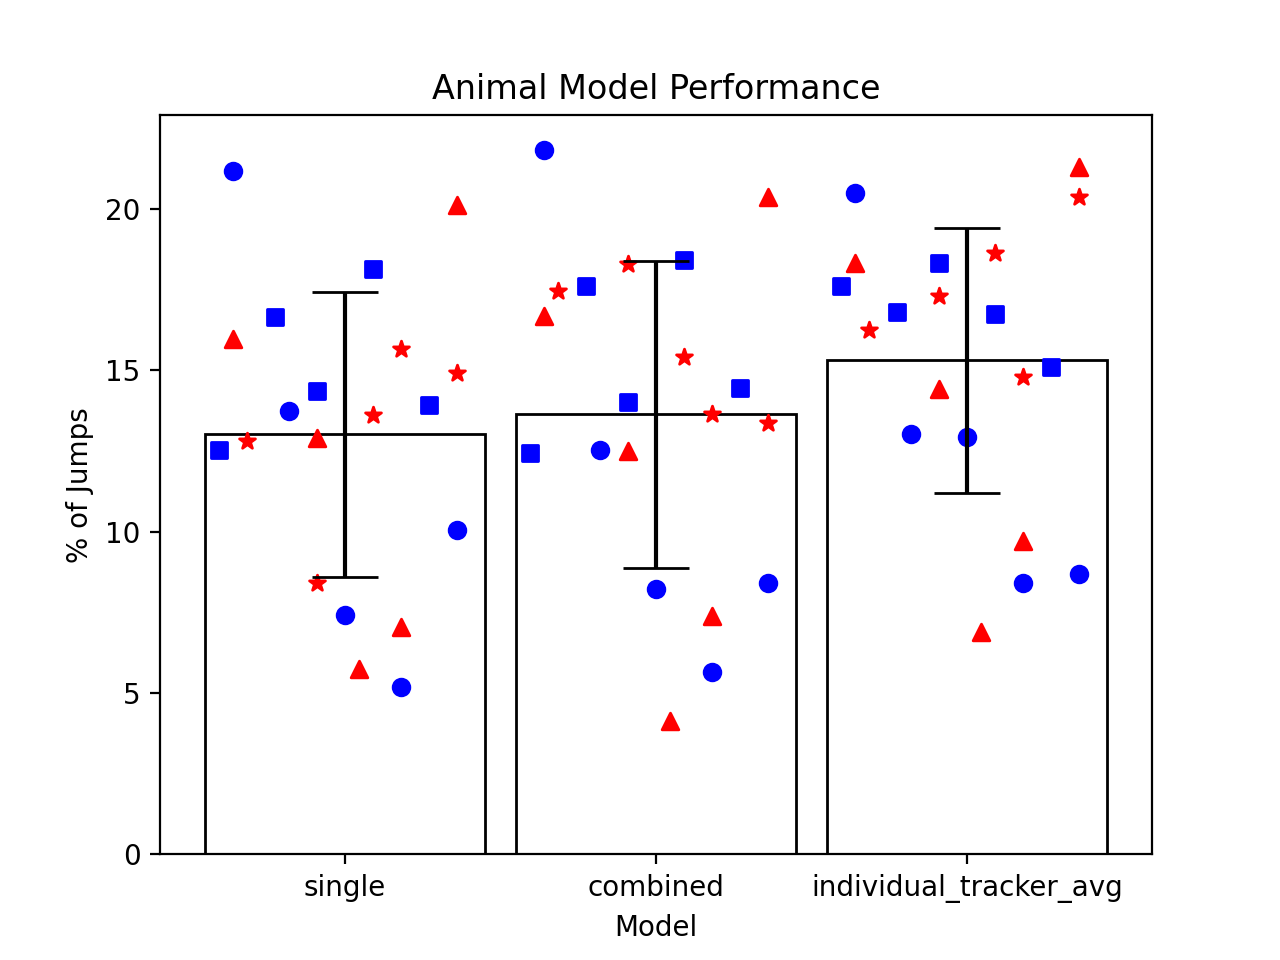
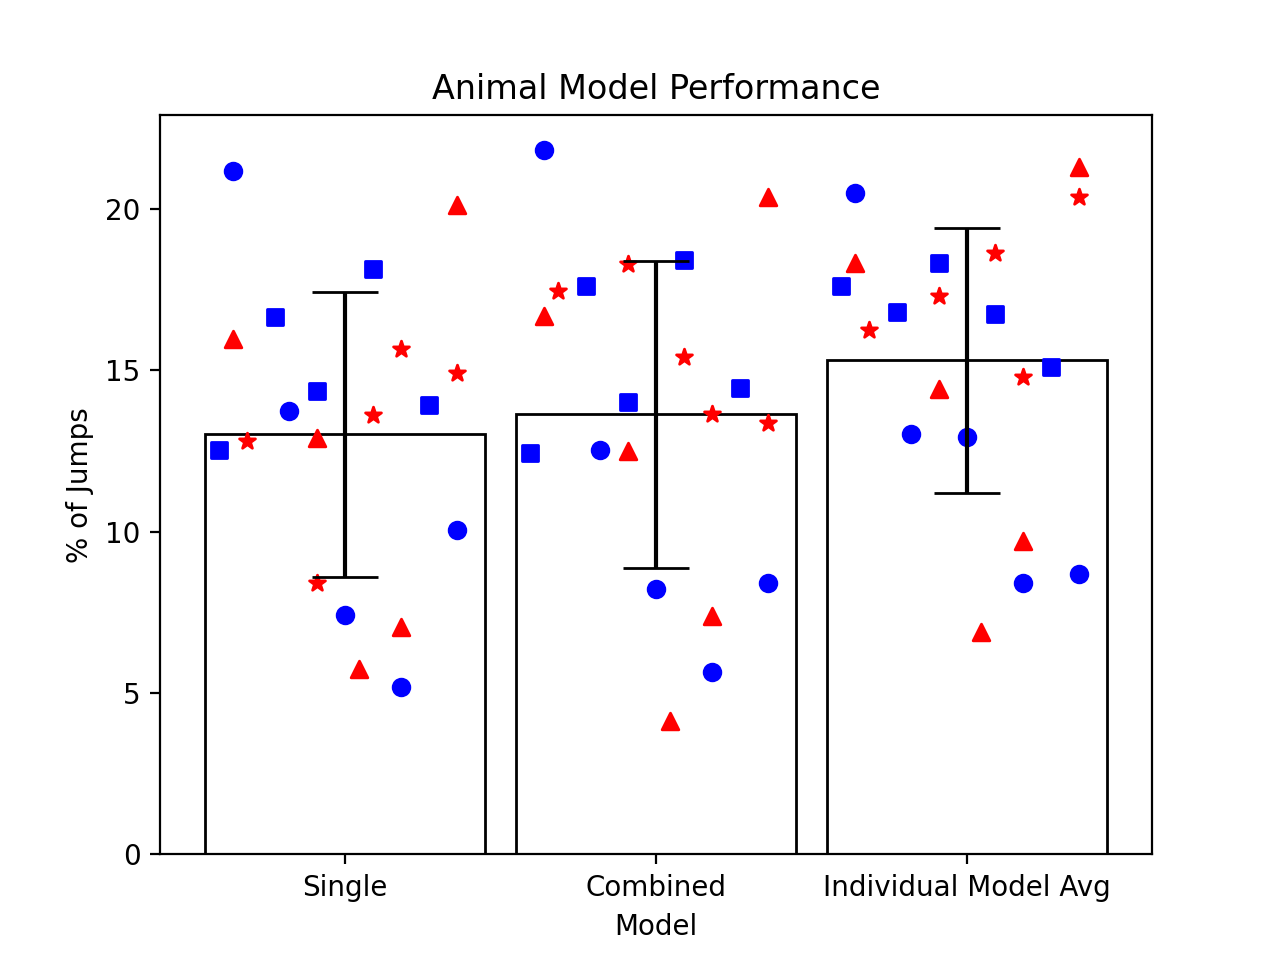
DLC udpate

Changed region(s): [[0.625, 0.9062, 0.875, 0.9375], [0.4375, 0.9062, 0.5625, 0.9688], [0.2188, 0.9062, 0.3125, 0.9375]]

diff --git a/DeepLabCut/DLC_jump_analysis/all_trackers/jump_analysis.py b/DeepLabCut/DLC_jump_analysis/all_trackers/jump_analysis.py
@@ -52,9 +52,9 @@ def main(full_path, relative_path, fname1, fname2, fname3):
     y1 = single_values, combined_values
     y2 = Ms21_values, Ms22_values, RC1_values, Rear5_values
 
-    labels1 = ['single', 'combined']
-    labels2 = ['R1', 'R2', 'R3', 'R4']
-    labels3 = ['single', 'combined', 'individual_tracker_avg']
+    labels1 = ['Single', 'Combined']
+    labels2 = ['Rat 1', 'Rat 2', 'Rat 3', 'Rat 4']
+    labels3 = ['Single', 'Combined', 'Individual Model Avg']
 
     figure1 = plt.figure(1)
     plt.bar(x1,
@@ -139,8 +139,8 @@ def main(full_path, relative_path, fname1, fname2, fname3):
     plt.scatter(x2[3] + np.array([0.12, 0.4, 0.5, 0.7, 0.9]) * w - w / 2, Rear5_tracker[10:15], color=colors[0], marker='*') #star marker = RC1
 
   
-    plt.title("Single Animal Model Performance")
-    plt.xlabel("Model")
+    plt.title("Animal Model Performance")
+    plt.xlabel("Individual Model")
     plt.ylabel("% of Jumps")
     plt.savefig(fname2, dpi=100)
     plt.show()
